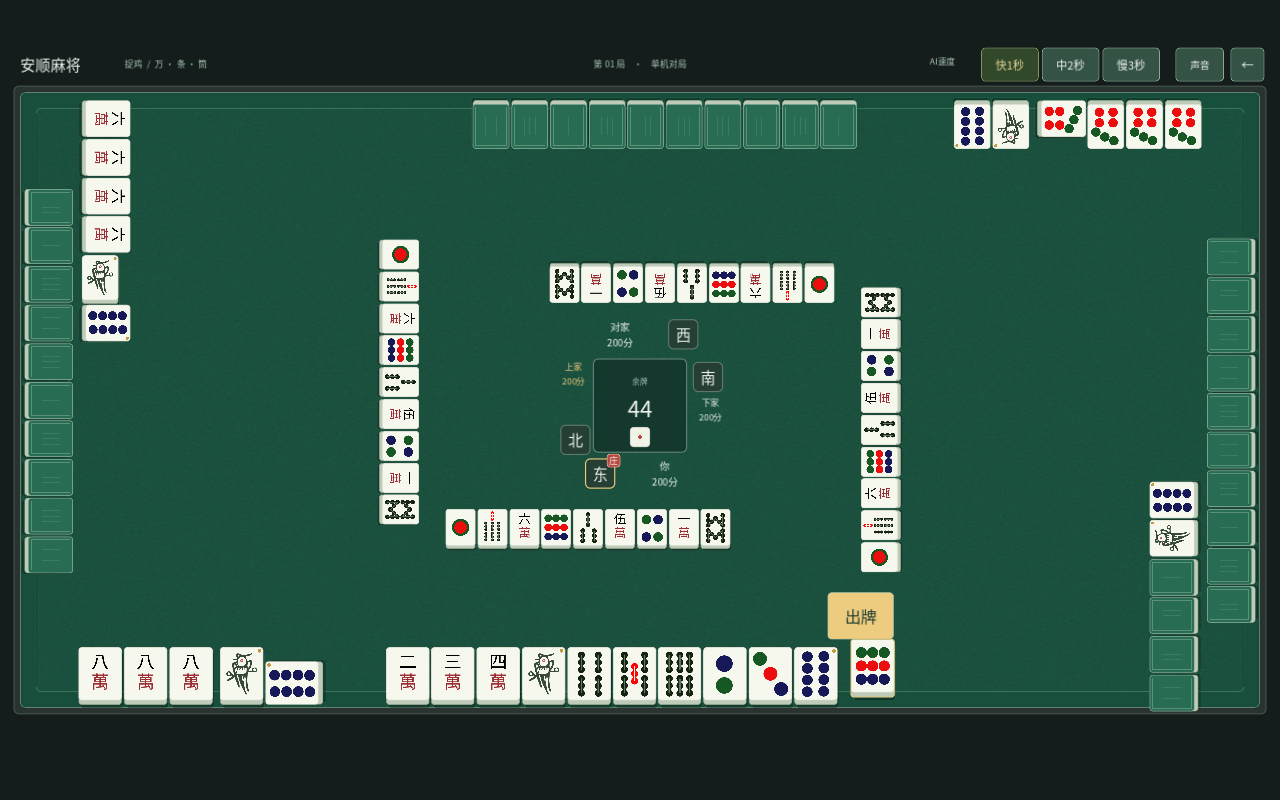
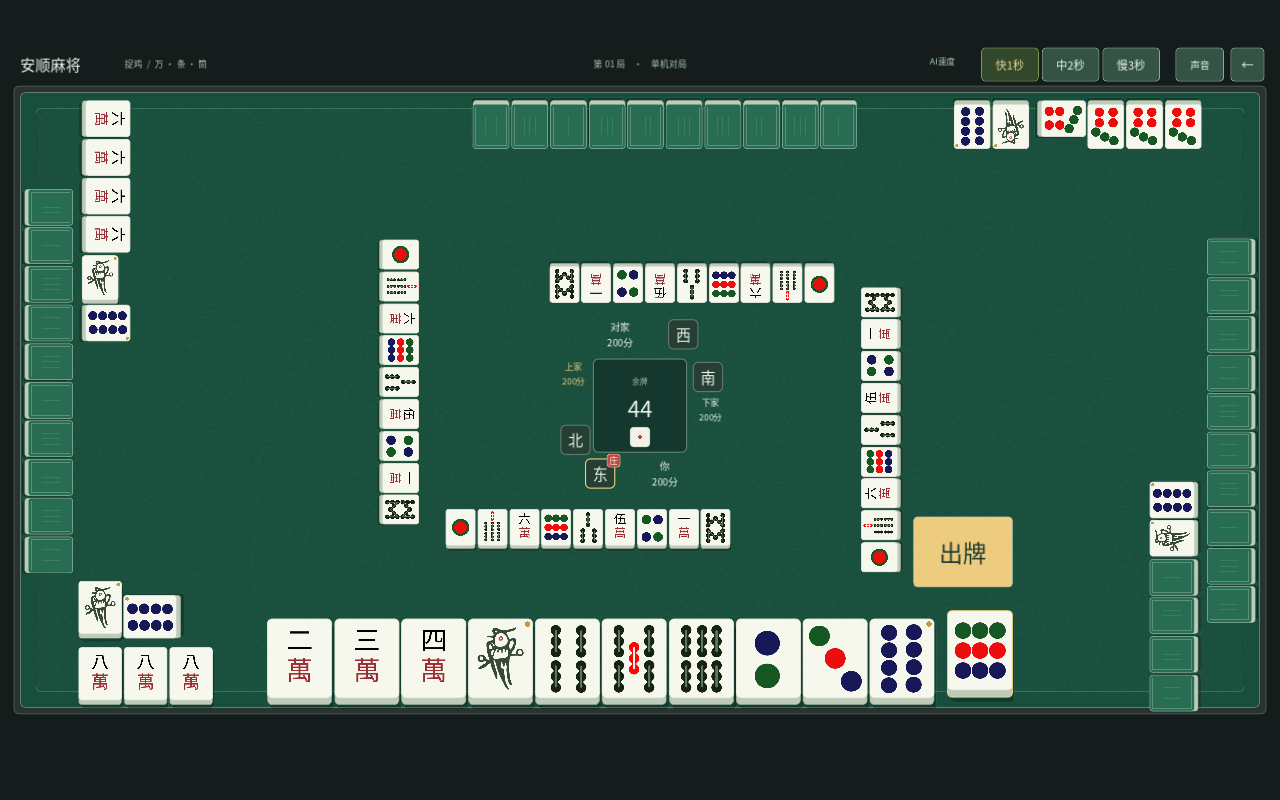
anshun-mahjong 放大

Changed region(s): [[0.1562, 0.625, 0.8125, 0.9062], [0.0625, 0.7188, 0.1562, 0.8125]]

diff --git a/README.md b/README.md
@@ -29,7 +29,7 @@ Godot_v4.7.2-stable_win64.exe --path "桌面/Mahjong-Godot"
 - 四家分数默认各 200，可为负；牌桌各玩家名字下显示当前累计分数，叫牌和本局记分明细放在局末结算卡片。单机可继续下一局，保留累计分数。
 - **胡牌那张牌停在摸牌位**：自摸或胡别人打出的牌，那张牌都单独显示在右侧摸牌位，不并回手牌排序里，一眼能看出胡的是哪张。
 - **结算卡片**：从上到下为你、上家、对家、下家。每家第一行显示累计分数、自己的「本局分」，以及从该玩家自己视角与上家、对家、下家的三笔收付（正数收款，负数付款）。本局分是得分点合计，明杠基础4分仅向放杠者收，不混入通用本局分。明细显示叫牌状态、自摸等奖励及完整牌面：同类型、同单张分值的牌合并一组，普通鸡2、金鸡4、冲锋鸡4、冲锋金鸡8分别展示，翻鸡也按张数合计。所有杠集中放在最后，四张牌与基础杠分、杠内鸡分一并展示；暗杠、加杠四张都竖放。明杠来源是下家时第四张右横，上家时第一张左横，对家时三张竖牌上方居中横放第四张。明细多时独立换行和滚动。卡片右上角「看牌桌」与「查看结算」在同一位置切换。
-- 牌桌按四向围坐排布，Windows 与 Android 固定横屏：自己的手牌、摸牌、碰杠牌和鸡牌使用 1.60 倍牌面，其他三家使用 1.35 倍，弃牌保持 1.10 倍；牌墙数据继续用于骰子和发牌，但牌桌不绘制牌墙。东西两家手牌与摸牌位整体水平居中，自己的出牌、碰、杠、胡按钮放在摸牌位上方并放大；碰杠后仍会按空间向内换行。东西两家的弃牌容器扩大并隐藏滚动条，牌面尺寸不变。幺鸡、八筒各自全场首张打出的牌横放表示冲锋鸡；被碰杠后原弃牌区和记录移除，冲锋标记跟随到领取者的碰杠组。碰不标来源；明杠与结算采用相同的上/对/下家横牌排列；暗杠、加杠全部四竖。联机时自己的座位始终在下方。
+- 牌桌按四向围坐排布，Windows 与 Android 固定横屏：自己的手牌和摸牌使用 2.40 倍牌面（上版的 1.5 倍），自己的碰杠牌和鸡牌使用 1.60 倍，其他三家使用 1.35 倍，弃牌保持 1.10 倍；牌墙数据继续用于骰子和发牌，但牌桌不绘制牌墙。东西两家手牌与摸牌位整体水平居中，操作按钮放在摸牌位上方，出牌、报听、碰、杠、胡、自摸等操作按钮统一为 177×126（原按钮的 1.5 倍），字号为 42，与手牌留出 56 像素的空隙；手牌变短时按钮会向右避开自己的弃牌区，允许覆盖下家弃牌区。碰杠后仍会按空间向内换行。东西两家的弃牌容器扩大并隐藏滚动条，牌面尺寸不变。幺鸡、八筒各自全场首张打出的牌横放表示冲锋鸡；被碰杠后原弃牌区和记录移除，冲锋标记跟随到领取者的碰杠组。碰不标来源；明杠与结算采用相同的上/对/下家横牌排列；暗杠、加杠全部四竖。联机时自己的座位始终在下方。
 - 右上角可调 AI 出牌速度：**快 1 秒 / 中 2 秒 / 慢 3 秒**，单机和主机即时生效。
 - 主菜单「声音设置」或牌桌右上角「声音」可分别开关、调整背景音乐、出牌/动作语音和落桌音效。设置自动保存，下次运行继续使用。默认背景音乐12%、语音80%，音乐较轻，不盖过喊牌。
 - 进入牌桌循环播放 Kevin MacLeod《Ripples》（57 BPM，舒缓拨弦风格，CC BY 4.0），已降低响度并在声音设置中署名。四家使用两男两女的不同普通话声音，绑定座位，换庄也保留原声音。每次实际出牌喊对应牌名（一条喊「幺鸡」），碰、明杠/暗杠/加杠、报听分别喊「碰」「杠」「报听」，自摸喊「自摸」，胡别人或抢杠喊「胡了」。无效动作和流局不喊胡；加杠从宣告到完成只喊一次，暗杠不喊具体牌名。喊牌时音乐自动降低音量，语音结束后恢复；返回大厅停止牌桌音频。声音设置可分别试听四套声音。素材随工程运行，PC/Android 均无需联网或安装语音引擎。
@@ -82,7 +82,7 @@ Godot_v4.7.2-stable_win64.exe --path "桌面/Mahjong-Godot"
    命令行：`godot --headless --export-release "Android" build/android/安顺麻将.apk`
 4. 命令行导出 PC：`godot --headless --export-release "Windows" build/windows/安顺麻将.exe`
 
-本轮横屏布局修改暂不生成 Windows/Android 安装包；开发调试可直接按 F5，确认效果后再按上面的导出命令打包。
+最新横屏布局已打包：Windows 为 `build/windows/安顺麻将.exe`（可直接运行），Android 为 `build/android/安顺麻将.apk`（使用现有调试密钥签名，可安装测试）。已检查 Windows 启动与打包后的牌桌资源、APK 签名及横屏设置。后续修改代码不会自动更新安装包，需要重新导出。
 
 导出预设已写入 `export_presets.cfg`（Windows + Android，含包名 `com.anshun.mahjong`、arm64-v8a/armeabi-v7a、沉浸式全屏）。
 
@@ -148,7 +148,7 @@ godot --headless res://tests/client_scene.tscn
 
 ## 九、牌桌 UI 可调参数
 
-主要布局参数集中在 `scripts/ui/GameTable.gd` 顶部：`OWN_PLAYER_TILE_UNIT` 控制自己手牌、摸牌、碰杠和鸡牌（当前 1.60 倍），`PLAYER_TILE_UNIT` 控制其他三家的同类牌（当前 1.35 倍），`TILE_UNIT` 保持弃牌牌面（1.10 倍）；牌墙数据仍参与骰子和摸牌逻辑，但牌桌不再绘制牌墙。`RESULT_TILE_UNIT` 控制结算牌面和翻鸡牌；`DRAW_GAP` 是手牌与摸牌位之间的距离，`EXPOSED_HAND_GAP` 是碰杠/鸡牌与手牌的最小间隔。`_hand_layout()` 让手牌和摸牌位整体居中，预留摸牌位避免摸打时整排晃动；`_seat_metrics()` 控制各家的手牌、弃牌区和碰杠换行区域。东西两家的弃牌区扩大容器但仍使用 `TILE_UNIT`，滚动条隐藏；`_prepare_exposed_layouts()` 会在多组碰杠/鸡牌时向内换行并避开按钮、分数和中央区域。
+主要布局参数集中在 `scripts/ui/GameTable.gd` 顶部：`OWN_HAND_TILE_UNIT` 控制自己的手牌和摸牌（当前 2.40 倍），`OWN_PLAYER_TILE_UNIT` 控制自己的碰杠和鸡牌（1.60 倍），`PLAYER_TILE_UNIT` 控制其他三家的同类牌（1.35 倍），`TILE_UNIT` 保持弃牌牌面（1.10 倍）；牌墙数据仍参与骰子和摸牌逻辑，但牌桌不再绘制牌墙。`DISCARD_BUTTON_SIZE` 统一控制出牌、报听、碰、杠、胡等操作按钮，`ACTION_HAND_GAP` 控制操作区与手牌上边的空隙。`RESULT_TILE_UNIT` 控制结算牌面和翻鸡牌；`DRAW_GAP` 是手牌与摸牌位之间的距离，`EXPOSED_HAND_GAP` 是碰杠/鸡牌与手牌的最小间隔。`_hand_layout()` 让手牌和摸牌位整体居中，预留摸牌位避免摸打时整排晃动；`_seat_metrics()` 控制各家的手牌、弃牌区和碰杠换行区域。东西两家的弃牌区扩大容器但仍使用 `TILE_UNIT`，滚动条隐藏；`_prepare_exposed_layouts()` 会在多组碰杠/鸡牌时向内换行并避开按钮、分数和中央区域。
 
 Windows 与 Android 都固定使用横屏画布 `LANDSCAPE_SIZE`（2280×1280），Android 使用 `window/handheld/orientation=4`。窗口比例变化只缩放和留边，不切回竖屏；`_usable_rect()` 为安卓安全区域留边，切换尺寸会自动刷新牌面、弃牌区和操作按钮。布局测试覆盖 16:9、20:9、16:10、方屏和竖屏窗口的横屏画布边界；截图见 `docs/android_table_*.png` 和 `docs/android_result_*.png`。
 
